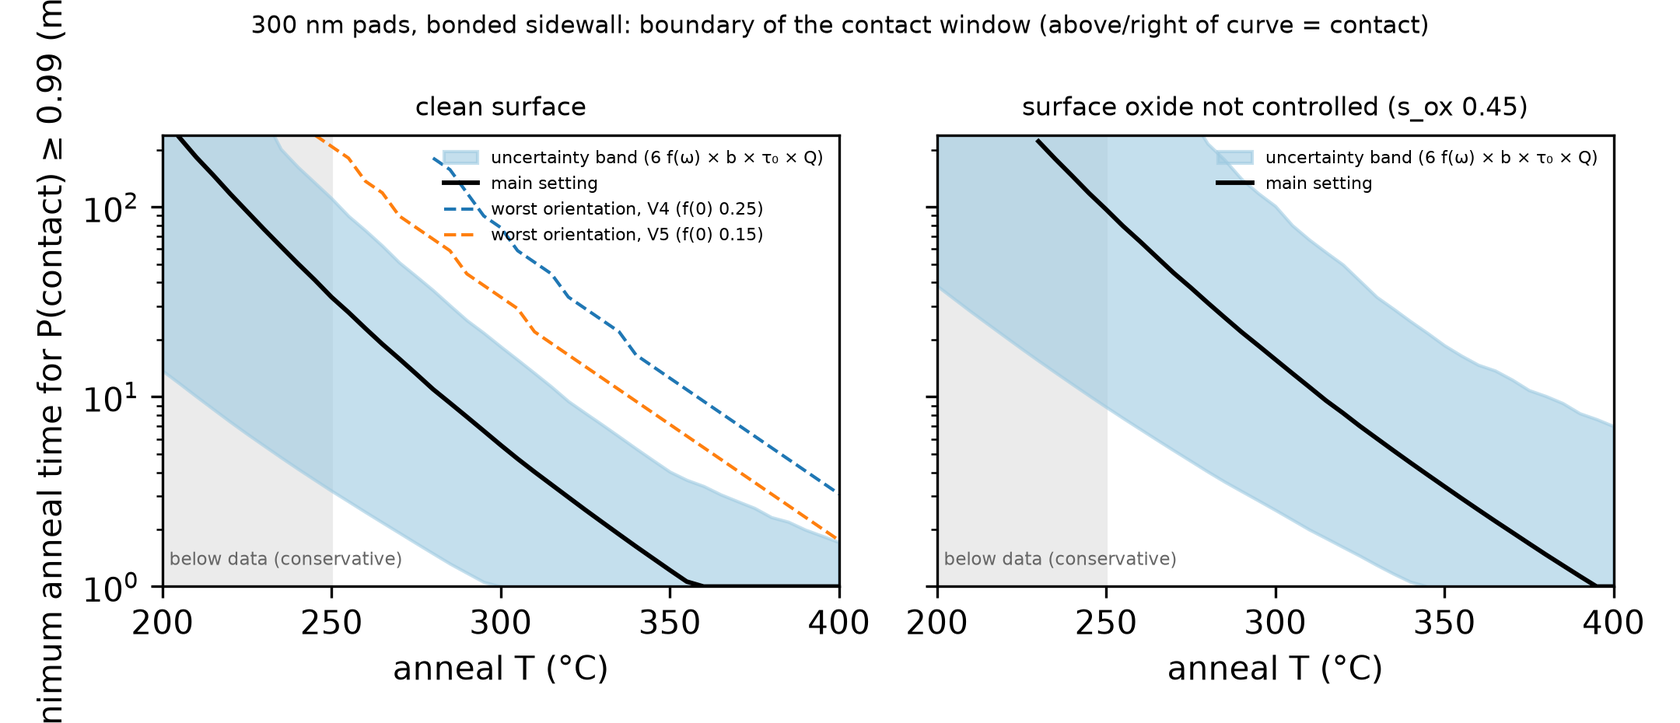
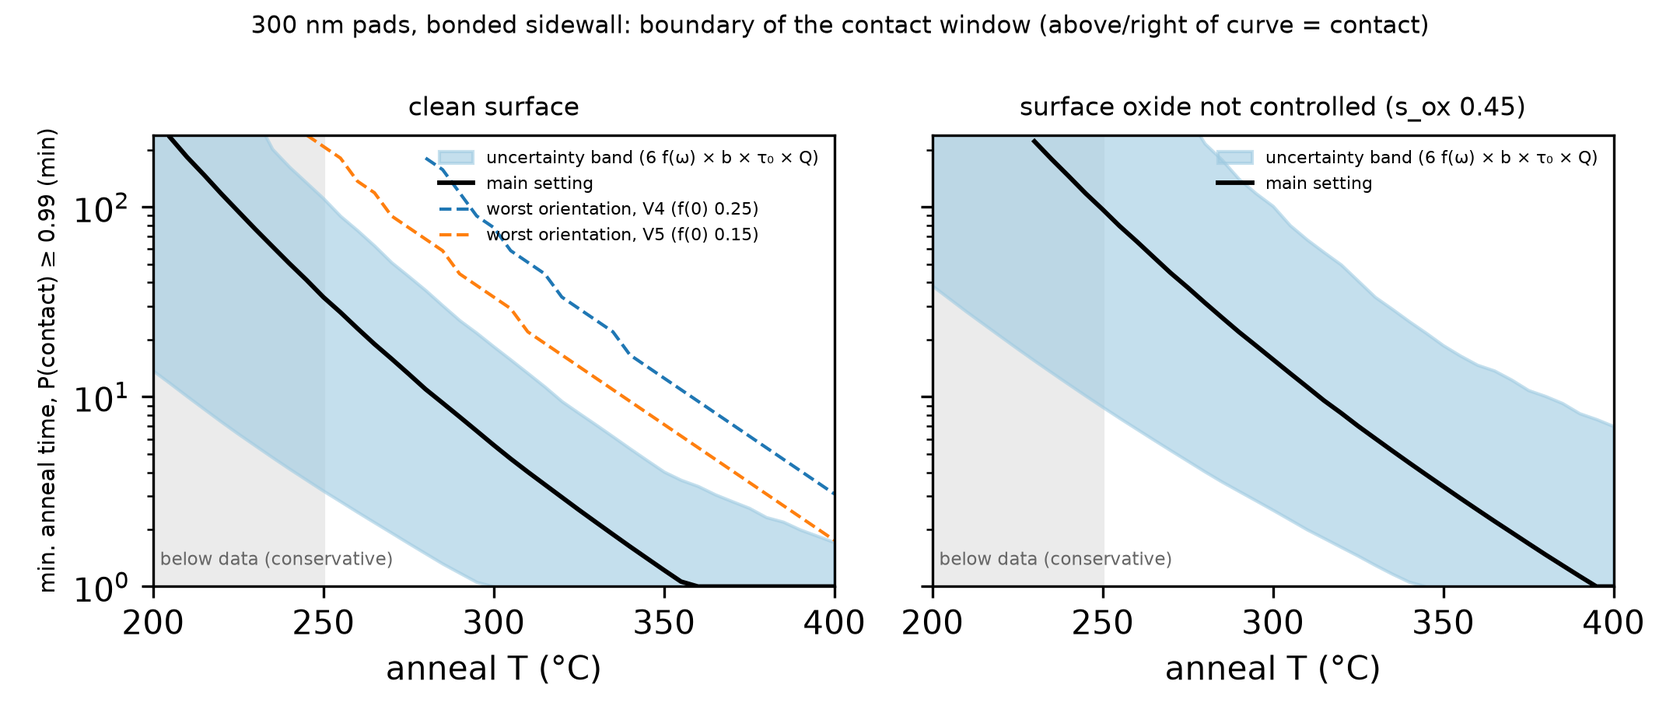
v4.5: boundary grid extended to 100 C so 2 h factor shifts are not clamped (tau0 31->36 C, Q 20->49 C); factors also stored as time multipliers at fixed T (constant in T except Q); Fig. 6 two panels, interface bar dropped (v5 scope); future-work list rewritten (literature now, measurement-only, not 

diff --git a/src/v2/boundary_curves.py b/src/v2/boundary_curves.py
@@ -28,7 +28,8 @@ import f_omega_variants as F  # noqa: E402
 
 OUT = F.OUT
 FIG = REPO / "results" / "figures"
-TG = np.arange(200.0, 400.1, 5.0)
+TG = np.arange(100.0, 400.1, 5.0)    # computed from 100 C only so that boundaries just below 200 C are not clamped at the grid edge
+                                     # (v4.4 had 200 C: the 2 h shifts of tau0 and Q were clamped). Below 250 C = outside data; no recipe claim.
 TMIN = np.logspace(0, math.log10(240.0), 40)             # minutes
 D = 300.0
 P_WIN = 0.99
@@ -127,7 +128,13 @@ def main():
     base_tb = t_boundary(P_grid(m["variant"], m["b"], m["tau0"], m["Q"]))
     def shift(tb_a, tb_b=None):
         tb_b = base_tb if tb_b is None else tb_b
-        return {f"{tf}min": (T_at(tb_a, tf) - T_at(tb_b, tf)) for tf in (30, 120)}
+        out = {f"{tf}min": (T_at(tb_a, tf) - T_at(tb_b, tf)) for tf in (30, 120)}
+        # same factor as a multiplier of the minimum anneal time at fixed T (worse / better); constant in T for factors that
+        # rescale the kinetics, T-dependent for Q (pivot at the 350 C reference)
+        for Tq in (220.0, 250.0, 285.0, 320.0):
+            i = int(np.argmin(abs(TG - Tq)))
+            out[f"time_ratio_{Tq:.0f}C"] = float(tb_a[i] / tb_b[i]) if np.isfinite(tb_a[i]) and np.isfinite(tb_b[i]) else float("inf")
+        return out
     var_tb = {v: t_boundary(P_grid(v, m["b"], m["tau0"], m["Q"])) for v in fits}
     fac = {
         "mechanism: surface diffusion off (elastic only)": {f"{tf}min": (float("inf") if math.isnan(T_at(t_boundary(P_grid(m['variant'], m['b'], m['tau0'], m['Q'], diffusion=False)), tf)) else 0.0) for tf in (30, 120)},
@@ -143,6 +150,10 @@ def main():
         "orientation-tail shape: spread over 6 f(omega)": {f"{tf}min": (np.nanmax([T_at(v, tf) for v in var_tb.values()]) - np.nanmin([T_at(v, tf) for v in var_tb.values()])) for tf in (30, 120)},
         "elastic factor b: 0.60 vs 1.0": shift(t_boundary(P_grid(m["variant"], 0.60, m["tau0"], m["Q"])), t_boundary(P_grid(m["variant"], 1.0, m["tau0"], m["Q"]))),
     }
+    ts = fac["orientation-tail shape: spread over 6 f(omega)"]
+    for Tq in (220.0, 250.0, 285.0, 320.0):     # slowest / fastest variant at fixed T
+        i = int(np.argmin(abs(TG - Tq))); col = np.array([v[i] for v in var_tb.values()])
+        ts[f"time_ratio_{Tq:.0f}C"] = float(col.max() / col.min()) if np.all(np.isfinite(col)) else float("inf")
     # the same factors evaluated for every variant as main -> range of the shift
     res["factor_shift_C"] = fac
     res["base_T_at"] = {f"{tf}min": T_at(base_tb, tf) for tf in (5, 30, 120)}
@@ -168,7 +179,7 @@ def main():
     res["worst_orientation"] = worst
     json.dump(res, open(OUT / "boundary_curves.json", "w"), indent=1, default=lambda x: None if (isinstance(x, float) and not math.isfinite(x)) else float(x))
     # figures
-    import matplotlib; matplotlib.use("Agg"); import matplotlib.pyplot as plt
+    import matplotlib; matplotlib.use("Agg"); import matplotlib.pyplot as plt; import matplotlib.ticker
     fig, axs = plt.subplots(1, 2, figsize=(7.2, 3.1), sharey=True)
     for ax, surf, title in zip(axs, ("clean", "oxidised"), ("clean surface", "surface oxide not controlled (s_ox 0.45)")):
         s = res["surfaces"][surf]
@@ -185,18 +196,26 @@ def main():
         ax.axvspan(200, 250, color="0.92", zorder=0); ax.text(202, 1.3, "below data (conservative)", fontsize=5.5, color="0.4")
         ax.set_yscale("log"); ax.set_ylim(1, 240); ax.set_xlim(200, 400); ax.set_xlabel("anneal T (°C)"); ax.set_title(title, fontsize=8)
         ax.legend(fontsize=5.2, frameon=False, loc="upper right")
-    axs[0].set_ylabel("minimum anneal time for P(contact) ≥ 0.99 (min)")
+    axs[0].set_ylabel("min. anneal time, P(contact) ≥ 0.99 (min)", fontsize=7)
     fig.suptitle("300 nm pads, bonded sidewall: boundary of the contact window (above/right of curve = contact)", fontsize=7.5)
     fig.tight_layout(); fig.savefig(FIG / "s2_boundary_curves_300nm.png", dpi=300); plt.close(fig)
     fig, ax = plt.subplots(figsize=(6.4, 3.3))
-    items = [(k, v["30min"], v["120min"]) for k, v in fac.items() if not k.startswith("mechanism")]
+    # interface row omitted from the figure: paper scope is bonded sidewalls (draft v5); it stays in the JSON
+    items = [(k, v["30min"], v["120min"], v["time_ratio_250C"]) for k, v in fac.items() if not k.startswith(("mechanism", "interface"))]
     items.sort(key=lambda r: -abs(np.nan_to_num(r[2])))
     y = np.arange(len(items))
+    plt.close(fig); fig, (ax, ax2) = plt.subplots(1, 2, figsize=(7.2, 3.3), sharey=True, gridspec_kw=dict(width_ratios=[1.5, 1]))
+    ax2.barh(y, [r[3] for r in items], 0.5, color="0.45"); ax2.axvline(1, color="k", lw=0.6)
+    for yy, r in zip(y, items):
+        ax2.text(r[3] * 1.03, yy, f"×{r[3]:.1f}", va="center", fontsize=5.5)
+    ax2.set_xscale("log"); ax2.set_xlim(0.9, 7); ax2.set_xticks([1, 2, 3, 5]); ax2.set_xticklabels(["1", "2", "3", "5"], fontsize=6.5)
+    ax2.xaxis.set_minor_locator(matplotlib.ticker.NullLocator()); ax2.set_xlabel("× minimum anneal time at fixed T (250 °C)", fontsize=6.5)
+    ax2.set_title("same factors in time units", fontsize=7)
     ax.barh(y - 0.18, [abs(np.nan_to_num(r[1])) for r in items], 0.36, label="at 30 min")
     ax.barh(y + 0.18, [abs(np.nan_to_num(r[2])) for r in items], 0.36, label="at 2 h")
     ax.set_yticks(y); ax.set_yticklabels([r[0] for r in items], fontsize=6.2); ax.invert_yaxis()
-    ax.set_xlabel("|shift of the boundary temperature| (°C), 300 nm, clean")
-    ax.set_title("surface diffusion off: no closure at any T ≤ 400 °C (not shown)", fontsize=7)
+    ax.set_xlabel("shift of the boundary temperature (°C), 300 nm, clean", fontsize=6.5); ax.tick_params(axis="x", labelsize=6.5)
+    ax.set_title("surface diffusion off: no closure at any T ≤ 400 °C (not shown)", fontsize=7); ax.tick_params(axis="y", labelsize=6.2)
     ax.legend(fontsize=6.5, frameon=False); fig.tight_layout(); fig.savefig(FIG / "s2_factor_shift_300nm.png", dpi=300); plt.close(fig)
 
 

diff --git a/docs/paper/ieie2026f_plan_and_draft_ko.md b/docs/paper/ieie2026f_plan_and_draft_ko.md
@@ -18,7 +18,7 @@
 
 **기여 두 가지(4.1).**
 1. **탄성 접촉 한계의 정량 규칙과 대리식.** 두 그룹(NYCU·imec) 돌출 실측으로 학습·테스트한 열탄성 FEM에서, 탄성 접촉 한계를 recess 조건부 규칙으로 제시했다(400 °C, 3/5/8 nm → 0.55/0.70/1.0 µm). 등방(Hill) 탄성 돌출은 구속 계수 대리식 C(h/w)가 imec·NYCU 적층의 미사용 기하 4개에서 ±20 % 안에 들었다(사전등록). 0.54 µm 실측(측정/모델 0.61–0.69, 전 온도)은 이 곡선 밖의 고립점이며, 라이너 두께 가설까지 시험해 탄성 기하 인자로는 설명되지 않음을 보였다.
-2. **패드별 무작위 요인을 포함한 공정창: 확률 기준과 최악 조건 기준.** 패드마다 다른 recess와 결정방위를 확률 변수로 두고, DM2026 분포의 판독 가능한 범위(누적 ≥ 0.5 %)와 일관된 방위 함수 f(ω) 6종 × 탄성 계수 b × 확산 동역학 τ₀·Q의 모든 조합에서 유지되는 경계는 청정 표면 기준 2시간 248 °C, 30분 285 °C, 5분 342 °C 이상이다. 요인별 경계 온도 이동으로 보면 공정창을 가장 크게 움직이는 것은 지배 기구(확산 유무)와 확산 동역학·라이너·표면(20–40 °C)이고, recess 평균과 방위 꼬리는 약 10 °C, recess 산포는 약 4 °C이며, recess 산포와 방위는 주로 **수율의 하위 꼬리**(천 쌍 중 몇 쌍이 끝까지 안 닿는가)를 정한다. 방위 분포 가정을 뺀 최악 조건 기준에서는 정확히 <111>인 패드의 bulge-out f(0)이 결론을 정한다(0 → 어떤 어닐로도 최악 쌍 불충분, 허용 recess 0.5–0.9 nm/패드; f(0) > 0 → 2시간 265–290 °C 또는 30분 304–324 °C 이상, 2.4–4.2 nm/패드). 확률 기준 허용 recess는 3.5–9 nm/패드다.
+2. **패드별 무작위 요인을 포함한 공정창: 확률 기준과 최악 조건 기준.** 패드마다 다른 recess와 결정방위를 확률 변수로 두고, DM2026 분포의 판독 가능한 범위(누적 ≥ 0.5 %)와 일관된 방위 함수 f(ω) 6종 × 탄성 계수 b × 확산 동역학 τ₀·Q의 모든 조합에서 유지되는 경계는 청정 표면 기준 2시간 248 °C, 30분 285 °C, 5분 342 °C 이상이다. 요인별 경계 온도 이동으로 보면 공정창을 가장 크게 움직이는 것은 지배 기구(확산 유무)와 확산 동역학·라이너·표면(25–49 °C)이고, recess 평균과 방위 꼬리는 약 10 °C, recess 산포는 약 4 °C이며, recess 산포와 방위는 주로 **수율의 하위 꼬리**(천 쌍 중 몇 쌍이 끝까지 안 닿는가)를 정한다. 방위 분포 가정을 뺀 최악 조건 기준에서는 정확히 <111>인 패드의 bulge-out f(0)이 결론을 정한다(0 → 어떤 어닐로도 최악 쌍 불충분, 허용 recess 0.5–0.9 nm/패드; f(0) > 0 → 2시간 265–290 °C 또는 30분 304–324 °C 이상, 2.4–4.2 nm/패드). 확률 기준 허용 recess는 3.5–9 nm/패드다.
 
 **주장하지 않는 것.** 기구 역전의 실측 검증, Ayoub 300 nm 변형률 크기 재현, 확산 항 검증 통과(사전등록 시험 3회 모두 NOT VALIDATED, 적용 범위 = 등크기 패드·≥ 250 °C), 관측 범위 아래 꼬리·f(0), "검증된 레시피".
 
@@ -44,7 +44,7 @@
 | Fig. 3 | 확산 항 vs DM2026: (a) 400/500 nm 피치 중앙값·IQR vs T/시간, (b) 크기 의존(200–500 nm 피치, 250 °C), (c) f(ω) 곡선과 facet 분율 | `s2_diffusion_fit.png`, `orient_diffusion_round2.csv` | 실패 점(200 °C 큰 패드)을 빈 기호로 |
 | Fig. 4 | 300 nm 공정창 경계: 온도(200–400 °C, 5 °C 간격)별 최소 어닐 시간, 청정/산화 패널, 주 설정 곡선 + 모든 조합 불확실 띠 + 최악 방위(f(0) > 0) 곡선, 250 °C 미만 회색(데이터 밖) | `s2_boundary_curves_300nm.png`, `results/stage2/v2/boundary_curves.json` | 곡선 |
 | Fig. 5 | 300 nm CMP recess 허용 합(nm) 지도(T × t) | `s2_recess_spec_0.30um.png`, `paper_results.json` | 숫자 표기 |
-| Fig. 6 | 요인별 경계 온도 이동(°C, 30분·2시간), 공정 변수/패드별 무작위 요인 색 구분 | `s2_factor_shift_300nm.png`, `boundary_curves.json` | 막대 |
+| Fig. 6 | (a) 요인별 경계 온도 이동(°C, 30분·2시간), (b) 같은 요인의 최소 어닐 시간 배수(250 °C) | `s2_factor_shift_300nm.png`, `boundary_curves.json` | 막대 |
 | Fig. 2(b) 후보 | 구속 계수 C vs h/w: FEM 167런 + 실측 19점 + 대리식, 0.54 µm 이탈 표시 | `results/figures/agents/constraint_factor.png`, `src/agents/scaling_collapse.py` | 사전등록 데이터 재배치 + X35–X38 통과점 |
 | Fig. 3(d) 후보 | 마스터 커브: h/(aD) vs t_eff(Q_eff 13.4), 등가 규칙 표 | `results/figures/agents/master_curve.png` | 사후 분석 표기 |
 | Fig. 6(c) 후보 | 체인 수율 Y(N) vs 링크 수, 대립 Cu/fg-Cu, 문헌 점 | `results/figures/agents/yield_vs_chain_length.png` | 탐색 예측 표기 |
@@ -85,7 +85,7 @@
 
 **3.2 표면확산 항: 시험 결과와 적용 범위.** 사전등록 고정형은 DM2026 17점 중 2점, 진폭 θ_eff를 학습한 개정 1은 11점을 통과해 규칙상 NOT VALIDATED이다. 실패는 200 °C·D ≥ 250 nm와 자가 어닐 Cu의 과소예측에 몰려 있고, ≥ 250 °C에서는 PPA-Cu 5/5, 전체 8/9가 허용오차 안이다(Fig. 3). 시간 의존: 200 °C 2 h→4 h 증가율 1.49 ± 0.13은 지수형 동역학과 양립하고, stretched exponential(β = 1/4; 두 배 증가율 상한 1.189)과는 2.3σ로 양립하지 않는다. 사후 분석에서 PPA-Cu 10점은 유효 활성화에너지 13.4 kcal/mol(문헌 저온값 13과 일치)로 한 곡선에 모였다. 이 형태를 고정해 미사용 DM2023(cavity/pad ≤ 0.5)으로 시험한 라운드 3는 0/7이었다: 등크기 패드 항은 불균등 구조로 전이되지 않는다. 따라서 식 (1)의 적용 범위는 등크기 접합·≥ 250 °C다. 방위: DM2026 분포의 판독 가능한 범위(누적 ≥ 0.5 %; 300 nm 패드 Fig. 3에서 6.5 nm 이하 3–4 %, 280 nm 패드 Fig. 5a에서 ≈ 10 %)와 일관된 f(ω) 4종은 모두 중앙값 11/17, IQR 13/17을 주며(방위 없는 모델 IQR 0), 몸통 폭 일부는 방위와 무관한 산포가 맡아야 한다. 정확히 <111>인 패드의 bulge-out f(0)과 누적 0.1 % 아래 꼬리는 관측되지 않았다.
 
-**3.3 300 nm 공정창과 요인별 영향.** 탄성 항은 결정방위 정보를 끝까지 유지했다: 300 nm 패드에 대해 방향 77개(학습 45, 검증 20, 면내 회전 12)의 3D ANSYS 해석으로 방향 2자유도 다항 회귀 응답표면(대리모델)을 만들고, 학습에 쓰지 않은 20방향에서 검증했다(접합: 2차식 최대 오차 0.46 %, 0.006 nm; 사전등록 기준 통과). 면내 회전 영향은 0.2 % 이하, 같은 E_z를 갖는 다른 방향의 차이는 0.34 % 이하로, 이 형상에서는 E_z 하나로 줄여도 정보 손실이 거의 없었다(공정창 판정 변화 0). 접합 계면에서 탄성 돌출의 방위 폭은 5 %([100]이 최소)다. 이 대리모델(탄성 계수 b ∈ {0.60, 0.69, 0.93, 1.0})과 식 (1)의 단순합으로, 상·하 방위(구면 균일 가정)와 recess(패드당 N(2.5, 0.5²) nm[10])를 확률 변수로 두고 P(m ≥ 0)를 계산했으며, 판독 범위와 일관된 f(ω) 6종 × b × τ₀{20, 60, 100 s} × Q{20.7, 13.4}의 모든 조합을 겹쳤다(Fig. 4). 온도 200–400 °C를 5 °C 간격, 시간 1분–4시간을 로그 간격 40점으로 계산해 P ≥ 0.99 경계를 '온도별 최소 어닐 시간' 곡선으로 그렸다(Fig. 4; 촘촘한 격자는 경계를 정밀하게 할 뿐 검증 데이터를 늘리지는 않는다). 탄성만으로 닫히는 조건은 없다. 청정 표면 주 설정의 경계는 30분에서 253 °C, 2시간에서 220 °C이고(250 °C 미만은 데이터 밖이며 모델이 보수적), 모든 불확실성 조합에서 유지되려면 5분 342 °C, 30분 285 °C, 2시간 248 °C 이상이 필요하다. 산화 표면은 같은 기준에서 30분 334 °C, 2시간 295 °C로 약 40–50 °C 높다. 요인의 영향은 경계 온도의 이동으로 나타냈다(2시간 / 30분 기준, Fig. 6): 확산이 없으면 400 °C까지 어떤 조건도 닫히지 않는다. 확산 속도 상수 τ₀(20↔100 s) 31/40 °C, 라이너 접촉각(107↔149°) 35/39 °C, 표면 산화 25/28 °C, 활성화에너지(13.4↔20.7 kcal/mol) 20/39 °C, 방위 꼬리의 모양(f(ω) 6종) 15/16 °C, recess 평균(2.5→3.5 nm/패드) 10/12 °C, 방위 꼬리의 유무 10/10 °C, recess 산포(σ 0.5→1.0 nm) 4/4 °C, 탄성 계수 b(0.60↔1.0) 3/4 °C. 즉 공정창은 열예산을 정하는 확산 동역학·라이너·표면이 주로 정하고, recess와 방위 같은 패드별 무작위 요인은 경계를 수–십여 °C 옮기며 주로 수율의 하위 꼬리에 작용한다. 그 꼬리의 최악 조건(방위 분포 가정 제거)은 정확히 <111>인 패드의 bulge-out f(0)이 정한다: f(0) = 0인 4종이면 최악 쌍의 여유는 탄성 단독(400 °C 30 min에서 −5.1 nm)과 같아 어떤 어닐로도 닫히지 않고, f(0) > 0인 2종(바닥값 0.25, 시그모이드)이면 최악 쌍도 2시간 기준 265–290 °C, 30분 기준 304–324 °C 이상에서 닫힌다. 허용 recess(패드당, 청정)는 확률 기준 3.5–9 nm, 최악 조건 기준 0.5–0.9 nm(f(0) = 0) 또는 2.4–4.2 nm(f(0) > 0)다(Fig. 5). 상·하 방위가 같은 순위로 짝지어지면 P가 0.965까지 떨어진다(의존성 민감도). 높이합 판정의 타당성은 접촉 FEM(2D 축대칭, Cu–Cu 마찰 접촉, 등방 소성)으로 점검했다: 접합 계면 300 nm·350 °C에서 높이합 예측과 FEM 중심 공극 분율(recess 1–4 nm/패드: 0.00/0.06/0.32/0.47)이 4/4 일치했다(기존 기록 재분석). 접합 계면에서는 Cu 표면이 돔형으로 솟아 중심 높이가 닫힘을 정한다. 따라서 높이합 판정을 계면 닫힘으로 읽을 수 있다.
+**3.3 300 nm 공정창과 요인별 영향.** 탄성 항은 결정방위 정보를 끝까지 유지했다: 300 nm 패드에 대해 방향 77개(학습 45, 검증 20, 면내 회전 12)의 3D ANSYS 해석으로 방향 2자유도 다항 회귀 응답표면(대리모델)을 만들고, 학습에 쓰지 않은 20방향에서 검증했다(접합: 2차식 최대 오차 0.46 %, 0.006 nm; 사전등록 기준 통과). 면내 회전 영향은 0.2 % 이하, 같은 E_z를 갖는 다른 방향의 차이는 0.34 % 이하로, 이 형상에서는 E_z 하나로 줄여도 정보 손실이 거의 없었다(공정창 판정 변화 0). 접합 계면에서 탄성 돌출의 방위 폭은 5 %([100]이 최소)다. 이 대리모델(탄성 계수 b ∈ {0.60, 0.69, 0.93, 1.0})과 식 (1)의 단순합으로, 상·하 방위(구면 균일 가정)와 recess(패드당 N(2.5, 0.5²) nm[10])를 확률 변수로 두고 P(m ≥ 0)를 계산했으며, 판독 범위와 일관된 f(ω) 6종 × b × τ₀{20, 60, 100 s} × Q{20.7, 13.4}의 모든 조합을 겹쳤다(Fig. 4). 온도 200–400 °C를 5 °C 간격, 시간 1분–4시간을 로그 간격 40점으로 계산해 P ≥ 0.99 경계를 '온도별 최소 어닐 시간' 곡선으로 그렸다(Fig. 4; 촘촘한 격자는 경계를 정밀하게 할 뿐 검증 데이터를 늘리지는 않는다). 탄성만으로 닫히는 조건은 없다. 청정 표면 주 설정의 경계는 30분에서 253 °C, 2시간에서 220 °C이고(250 °C 미만은 데이터 밖이며 모델이 보수적), 모든 불확실성 조합에서 유지되려면 5분 342 °C, 30분 285 °C, 2시간 248 °C 이상이 필요하다. 산화 표면은 같은 기준에서 30분 334 °C, 2시간 295 °C로 약 40–50 °C 높다. 요인의 영향은 경계 온도의 이동으로 나타냈다(2시간 / 30분 기준, Fig. 6): 확산이 없으면 400 °C까지 어떤 조건도 닫히지 않는다. 확산 속도 상수 τ₀(20↔100 s) 36/40 °C, 라이너 접촉각(107↔149°) 35/39 °C, 표면 산화 25/28 °C, 활성화에너지(13.4↔20.7 kcal/mol) 49/39 °C, 방위 꼬리의 모양(f(ω) 6종) 15/16 °C, recess 평균(2.5→3.5 nm/패드) 10/12 °C, 방위 꼬리의 유무 10/10 °C, recess 산포(σ 0.5→1.0 nm) 4/4 °C, 탄성 계수 b(0.60↔1.0) 3/4 °C. 같은 요인을 고정 온도에서 최소 어닐 시간의 배수로 보면 온도와 거의 무관하다(250 °C 기준 τ₀ ×5.0, 라이너 ×4.5, 산화 ×2.9, 꼬리 모양 ×1.9, recess 평균 ×1.6, 방위 꼬리 ×1.5, recess 산포·b ×1.2). 30분 경계의 이동이 2시간보다 큰 것은 요인이 강해져서가 아니라, 고온일수록 1 °C당 확산이 덜 빨라져 같은 시간 배수를 메우는 데 더 많은 °C가 들기 때문이다(아레니우스). 예외는 활성화에너지로, 350 °C 기준 데이터에서 멀리 내려갈수록 영향이 커진다(시간 배수 320 °C ×1.4 → 220 °C ×4.7). 즉 공정창은 열예산을 정하는 확산 동역학·라이너·표면이 주로 정하고, recess와 방위 같은 패드별 무작위 요인은 경계를 수–십여 °C 옮기며 주로 수율의 하위 꼬리에 작용한다. 그 꼬리의 최악 조건(방위 분포 가정 제거)은 정확히 <111>인 패드의 bulge-out f(0)이 정한다: f(0) = 0인 4종이면 최악 쌍의 여유는 탄성 단독(400 °C 30 min에서 −5.1 nm)과 같아 어떤 어닐로도 닫히지 않고, f(0) > 0인 2종(바닥값 0.25, 시그모이드)이면 최악 쌍도 2시간 기준 265–290 °C, 30분 기준 304–324 °C 이상에서 닫힌다. 허용 recess(패드당, 청정)는 확률 기준 3.5–9 nm, 최악 조건 기준 0.5–0.9 nm(f(0) = 0) 또는 2.4–4.2 nm(f(0) > 0)다(Fig. 5). 상·하 방위가 같은 순위로 짝지어지면 P가 0.965까지 떨어진다(의존성 민감도). 높이합 판정의 타당성은 접촉 FEM(2D 축대칭, Cu–Cu 마찰 접촉, 등방 소성)으로 점검했다: 접합 계면 300 nm·350 °C에서 높이합 예측과 FEM 중심 공극 분율(recess 1–4 nm/패드: 0.00/0.06/0.32/0.47)이 4/4 일치했다(기존 기록 재분석). 접합 계면에서는 Cu 표면이 돔형으로 솟아 중심 높이가 닫힘을 정한다. 따라서 높이합 판정을 계면 닫힘으로 읽을 수 있다.
 
 ### IV. 고찰 및 결론
 

diff --git a/docs/FUTURE_WORK.md b/docs/FUTURE_WORK.md
@@ -1,13 +1,30 @@
-# 후속 연구 목록 (2026-10-16, 제출본 v4.3 이후)
+# 후속 연구 목록 (2026-10-16 개정, 제출본 v5 이후)
 
-| # | 과제 | 왜 필요한가 | 무엇이 있어야 하나 | 규모 |
-|---|---|---|---|---|
-| 1 | 정확히 <111>인 패드의 bulge-out f(0) | 최악 조건 공정창과 허용 recess(0.5–0.9 vs 2.4–4.2 nm/패드)를 이 한 값이 정한다 | 실측(EBSD + AFM, <111> 단일 결정립 패드) 또는 저자 데이터 | 외부 데이터 |
-| 2 | 미끄럼 계면의 공정창을 접촉 FEM 기준으로 | 미끄럼에서는 높이합 판정이 낙관적(가장자리만 닿음, E71–E74 2/4) | 확산 bulge-out을 접촉 FEM 형상에 넣는 결합 해석(중심을 h_d만큼 올린 초기 형상 등) | ANSYS 2D 수십 런 |
-| 3 | 방위 대리모델의 적용 범위 확장 | 지금은 300 nm·imec 적층·피치 2 w 하나 | 0.54 µm, SiO2 적층, 피치·라이너 변화에서 같은 154런 절차 | ANSYS 3D 150런 단위 |
-| 4 | 확산 동역학 라운드 4 | 200 °C 과소, Cu 이력(도금 후 어닐) 미반영, β = 1/4 배척 | 지수형 동역학 + 이력별 τ₀를 고정하고 미사용 데이터로 사전등록 시험 | Python + 새 실측 |
-| 5 | 표면확산 형상 진화 FEM | f(ω)를 가정이 아니라 계산으로 대체 | 방위별 표면에너지 γ(ω)·표면확산계수 입력과 검증 데이터 | 장기 |
-| 6 | 0.54 µm 탄성 오차 원인 | 기하·라이너 가설 소진 | imec 원 데이터(Okudur 2017)의 측정 정의 | 저자 문의 |
-| 7 | ST/Leti 계면 정량 불일치 | 미끄럼+캡 비전달도 패드 10 기울기 40 % 과소 | 부분 접착(마찰·스프링) 계면, Ayoub 저자 회신 | ANSYS 3D 소수 |
-| 8 | 300 nm 단결정 소성(R61) | 접촉압력 절대값 | 다른 PC 결과 또는 수렴 개선 | ANSYS 장시간 |
-| 9 | 수율 연결(체인 길이) | 패드별 꼬리 → 체인 수율 예측의 검증 | 등크기 sub-µm 데이지체인 수율 공개 데이터 | 외부 데이터 |
+v4.3 목록(9개)을 다시 정리했다. 기준은 세 가지다. 지금 손으로 할 수 있는가, 하면 300 nm 접합 측벽 결론이 바뀌는가, 순서가 맞는가.
+
+## A. 지금 할 수 있는 것 (문헌 조사, 새 측정 없음)
+
+| # | 과제 | 왜 필요한가 | 방법 |
+|---|---|---|---|
+| A1 | 확산 방위 함수 f(ω) 문헌 데이터 | 남은 불확실성 중 꼬리 모양이 경계를 15–16 °C(시간 ×1.9) 옮긴다. 판독 범위 아래(누적 0.5 % 미만) 꼬리를 줄일 수 있는 유일한 경로 | 결정립 방위별 bulge-out/표면 이동 측정(EBSD + AFM/TEM) 논문 조사. 찾으면 f(ω) 변형 6종 중 어긋나는 것을 사전등록 기준으로 제외 |
+| A2 | 250 °C 이하 bulge-out 시간 변화 데이터 | 활성화에너지 Q의 영향이 저온·장시간일수록 커진다(시간 배수 320 °C ×1.4 → 220 °C ×4.7). 모든 조합 2시간 경계(248 °C)가 데이터 하한(250 °C) 바로 위에 있다 | 같은 크기 패드, 200–250 °C 어닐 시간별 돌출 데이터 문헌 조사. 없으면 '250 °C 미만 레시피는 주장하지 않는다'로 끝낸다 |
+
+A2를 논문에서 굳이 설명할 필요는 없다. 본문은 이미 250 °C 미만을 '데이터 밖, 모델 보수적'으로 표시하고 레시피를 주장하지 않는다. 한계 문장 한 줄이면 충분하다.
+
+## B. 측정이 있어야 하는 것 (이 연구 안에서는 해결 불가, 한계로만 기술)
+
+| # | 과제 | 막는 이유 |
+|---|---|---|
+| B1 | 정확히 <111>인 패드의 bulge-out f(0) | 최악 방위 결론(0이면 어떤 어닐로도 최악 쌍 불충분)을 이 한 값이 정하지만 실측이 필요하다 |
+| B2 | 300 nm 돌출 실측 | 300 nm 결과는 예측이며, 검증하려면 측정이 필요하다 |
+| B3 | 0.54 µm 탄성 오차 원인 | imec 원 데이터(Okudur 2017)의 측정 정의가 필요하다 |
+| B4 | 체인 수율 검증 | 같은 크기 sub-µm 데이지체인 수율 공개 데이터가 필요하다 |
+
+## C. 하지 않는 것 (결론을 바꾸지 않거나 순서가 틀림)
+
+| 과제 | 이유 |
+|---|---|
+| 미끄럼 계면 접촉 FEM 공정창 | 제출본 범위가 접합 측벽이다(v5). 접합에서는 높이합 판정과 접촉 FEM이 4/4 일치해 결론이 바뀌지 않는다 |
+| 방위 대리모델의 다른 크기·적층 확장 | 300 nm 대리모델은 154런과 미사용 20방향 검증으로 이미 끝났다(최대 오차 0.46 %). 300 nm의 남은 불확실성은 탄성이 아니라 확산 쪽이므로, 다른 크기로 넓히기 전에 A1·A2가 먼저다 |
+| 불균등 패드(상·하 크기 다름) | 확산 항이 같은 크기 패드에서만 성립한다(DM2023 불균등 0/7). 범위 밖으로 명시 |
+| 표면확산 형상 진화 FEM, 300 nm 단결정 소성(R61), ST/Leti 계면 정량 불일치, 오버레이·크리프 | 장기 과제이거나 다른 PC 작업이거나 범위 밖. 제출본 결론과 무관 |

diff --git a/docs/RESEARCH_SUMMARY_v4.md b/docs/RESEARCH_SUMMARY_v4.md
@@ -21,7 +21,7 @@
 
 1. **탄성 접촉 한계의 정량 규칙과 등방 대리식** — 두 그룹 돌출 실측으로 학습·테스트; 대리식 C(h/w) 미사용 형상 4/4 ±20 %(사전등록). 0.54 µm 이상점은 라이너 가설까지 기각해 탄성 기하로 설명 불가함을 확인.
 2. *(연구 기록, 논문 v5 제외)* **계면 조건을 하나의 설정으로 평가** — ST/Leti 정성 관측 넷(Ayoub 3 µm·300 nm 부호, Lhostis 폭·두께)을 모두 만족하는 것은 "측벽 미끄럼 + 캡 하중 비전달"뿐(접합 2/4). imec·NYCU는 접합 요구. 계면 상태는 공정별 입력, ST/Leti 이완은 후보 가설.
-3. **패드별 무작위 요인을 포함한 공정창(확률 기준과 최악 조건 기준)** — 공정창을 크게 움직이는 것은 지배 기구·열예산·표면·라이너·계면 상태, recess 산포와 방위는 수율 꼬리를 정함; 요인 영향은 경계 온도 이동으로: 동역학·라이너·표면 20–40 °C, 계면 14–19 °C, recess 평균·방위 꼬리 ≈ 10 °C, recess 산포·b 3–4 °C; 최악 방위는 f(0)이 결정(0 → 어떤 어닐도 불충분, 허용 recess 0.5–0.9 nm/패드; 0.25 → 2시간 290 °C·30분 324 °C 이상). f(0) 측정이 다음 실험.
+3. **패드별 무작위 요인을 포함한 공정창(확률 기준과 최악 조건 기준)** — 공정창을 크게 움직이는 것은 지배 기구·열예산·표면·라이너·계면 상태, recess 산포와 방위는 수율 꼬리를 정함; 요인 영향은 경계 온도 이동으로: 동역학·라이너·표면 25–49 °C, recess 평균·방위 꼬리 ≈ 10 °C, recess 산포·b 3–4 °C; 최악 방위는 f(0)이 결정(0 → 어떤 어닐도 불충분, 허용 recess 0.5–0.9 nm/패드; 0.25 → 2시간 290 °C·30분 324 °C 이상). f(0) 측정이 다음 실험.
 4. *(연구 기록, 논문 v5 제외)* **(v2) 계면이 방위 효과를 뒤집는다** — 300 nm 방위 154런: 접합 폭 5 %·[100] 최약, 미끄럼 폭 38 %·[111] 최약(확산 최약 방향과 겹침). E_z 축약 손실 ≤ 1.1 %, 면내 회전 ≤ 0.2 % → 방향 2자유도·E_z로 충분.
 5. *(연구 기록, 논문 v5에는 접합 4/4만)* **(v2) 높이합 판정의 유효 범위** — 접합(돔형 상승)에서는 접촉 FEM과 4/4 일치, 미끄럼(플러그형 상승)에서는 2/4: 가장자리만 닿고 중심 공극이 남는다.
 
@@ -61,3 +61,5 @@ v2-orientation: 13a580f(방위 사전등록) → c7e2eb4(방위 결과) → 4beb
 - T 5 °C 간격 × t 1분–4시간 로그 40점. 청정 경계: 주 설정 30분 253 °C / 2시간 220 °C; 모든 조합 유지 5분 342 / 30분 285 / 2시간 248 °C. 산화: 모든 조합 30분 334 / 2시간 295 °C.
 - 요인 = 경계 온도 이동(2 h / 30 min): 확산 없음 → 닫히지 않음; τ₀ 31/40, 라이너 35/39, 산화 25/28, Q 20/39, 계면 14/19, 꼬리 모양 15/16, recess 평균 10/12, 방위 꼬리 유무 10/10, recess 산포 4/4, b 3/4 °C.
 - 최악 방위(f(0) > 0): 2시간 265–290 °C, 30분 304–324 °C; f(0) = 0이면 닫히지 않음.
+- 정정(v4.5): v4.4 격자 하한 200 °C에서 2시간 경계가 잘려 τ₀(31→36 °C)·Q(20→49 °C) 이동이 과소였다. 계산 격자를 100 °C부터로 넓힘(250 °C 미만은 데이터 밖, 레시피 주장 없음). 주 설정·모든 조합 경계는 불변; 낙관 경계 2시간 청정 140 / 산화 168 °C(데이터 밖).
+- 30분 이동 > 2시간 이동의 의미: 시간 배수로는 거의 일정(τ₀ ×5.0, 라이너 ×4.5, 산화 ×2.9, 꼬리 모양 ×1.9, recess 평균 ×1.6, 방위 꼬리 ×1.5, recess 산포·b ×1.2). °C 차이는 아레니우스 환산 효과(고온에서 1 °C당 속도 증가가 작음). Q만 저온일수록 커짐(320 °C ×1.4 → 220 °C ×4.7).

diff --git a/docs/paper/claude_science_prompt_ko.md b/docs/paper/claude_science_prompt_ko.md
@@ -24,7 +24,7 @@
 ## 2026-10-16 v4.4 정정 — 최우선 (아래 모든 갱신보다 우선)
 - 공정창을 '셀/칸'(15개 레시피 판정) 대신 **5 °C 간격 경계 곡선**으로 쓴다. '9셀 유지/5셀 갈림', 'factor_cells_changed', '권고 셀 테두리' 표현은 모두 삭제.
 - Fig. 4 = `results/figures/s2_boundary_curves_300nm.png`, Fig. 6 = `results/figures/s2_factor_shift_300nm.png`. 숫자 원본은 `results/stage2/v2/boundary_curves.json`, 본문 숫자는 초안 3.4를 그대로 따른다.
-- 핵심 숫자: 청정 모든 조합 유지 2 h 248 °C / 30 min 285 °C / 5 min 342 °C; 산화 2 h 295 / 30 min 334 °C; 요인 이동(2 h/30 min) τ₀ 31/40, 라이너 35/39, 산화 25/28, Q 20/39, 꼬리 모양 15/16, recess 평균 10/12, 방위 꼬리 10/10, recess 산포 4/4, b 3/4 °C; 확산 없으면 400 °C까지 닫히지 않음.
+- 핵심 숫자: 청정 모든 조합 유지 2 h 248 °C / 30 min 285 °C / 5 min 342 °C; 산화 2 h 295 / 30 min 334 °C; 요인 이동(2 h/30 min) τ₀ 36/40, 라이너 35/39, 산화 25/28, Q 49/39, 꼬리 모양 15/16, recess 평균 10/12, 방위 꼬리 10/10, recess 산포 4/4, b 3/4 °C; 확산 없으면 400 °C까지 닫히지 않음. (v4.5) Fig. 6은 두 패널: (b) 같은 요인의 최소 어닐 시간 배수(250 °C, τ₀ ×5.0, 라이너 ×4.5, 산화 ×2.9, 꼬리 모양 ×1.9, recess 평균 ×1.6, 방위 꼬리 ×1.5, recess 산포·b ×1.2). 3.3의 '시간 배수는 온도와 무관, 30분 °C 이동이 큰 것은 아레니우스 환산, Q만 저온에서 커짐' 문장을 그대로 옮긴다.
 - 촘촘한 격자는 경계를 정밀하게 할 뿐 검증 데이터를 늘리지 않는다. 250 °C 미만은 데이터 밖(모델 보수적)으로 표기.
 
 ## 2026-10-16 v4 정정 — 최우선 (아래 이전 갱신보다 우선)

diff --git a/docs/stage2_exploration_log.md b/docs/stage2_exploration_log.md
@@ -667,3 +667,8 @@
 - `src/v2/boundary_curves.py`: T 200–400 °C 5 °C 간격 × t 1–240 min 로그 40점, P ≥ 0.99 경계를 온도별 최소 시간으로. 기존 탄성(hkl 대리모델)·f(ω) 6종·MC 설정 그대로, 새 데이터 없음.
 - 버그 수정(실행 전): 확산 진폭을 정렬 후 순열해 같은 패드의 탄성·확산 상관이 끊기던 문제 → 정렬 없이 같은 패드 순서 유지.
 - 결과: 청정 주 설정 30 min 253 / 2 h 220 °C; 모든 조합 5 min 342 / 30 min 285 / 2 h 248 °C; 산화 모든 조합 30 min 334 / 2 h 295 °C. 요인 이동은 RESEARCH_SUMMARY_v4 §7. 셀 수 순위(v4.3)는 격자 의존이라 대체.
+
+## 2026-10-16 v4.5 경계 이동 정정과 해석 (탐색, ANSYS 없음)
+- 발견: v4.4 계산 격자 하한 200 °C에서 2시간 경계가 잘림(주 설정 219.6 °C − Q 이동 19.55 = 200.0). 격자를 100 °C부터로 넓혀 재계산: τ₀ 2 h 31.4→35.5, Q 2 h 19.6→48.8 °C. 나머지·주 설정·모든 조합 경계 불변.
+- 요인을 고정 T에서 최소 시간 배수로도 저장(`time_ratio_*C`): τ₀ 4.9–5.05, 라이너 4.4–4.5, 산화 2.8–2.9, recess 평균 1.56–1.6, 방위 꼬리 1.49–1.52 — T와 무관. Q 4.72(220 °C) → 1.35(320 °C). 30분 °C 이동이 큰 것은 아레니우스 환산(T² 비 (526/493)² ≈ 1.14 = 40.4/35.5).
+- Fig. 6 두 패널로, 계면 막대는 그림에서 제거(draft v5 범위: 접합 측벽), JSON에는 유지.

diff --git a/docs/paper/corrections_v4.md b/docs/paper/corrections_v4.md
@@ -36,3 +36,4 @@
 8. 구성(v4.2): 서론은 필요성·목적·논문 구성으로 끝내고 기여 목록을 넣지 않는다. 기여 두 가지(v5)는 IV장 '고찰 및 결론'의 4.1 기여에 선행연구 대비로 쓴다(초안 §4 그대로). 서면 심사용 4쪽에서도 같은 배치.
 9. (v4.3) 3.4절: 탄성 항은 154런 hkl 대리모델 사용을 명시(초안 문단 그대로). Fig. 6은 `results/figures/s2_factor_ranking_v4.png`로 교체(파랑 = 공정 변수, 빨강 = 패드별 무작위 요인). 최악 조건 허용 recess 2.4–4.2 nm(f(0) > 0).
 10. (v4.4) Fig. 4 → `results/figures/s2_boundary_curves_300nm.png`(온도별 최소 어닐 시간 곡선 + 불확실 띠 + 최악 방위), Fig. 6 → `results/figures/s2_factor_shift_300nm.png`(요인별 경계 온도 이동, °C). '15개 중 몇 칸' 표현은 쓰지 않는다. 숫자는 초안 3.4 그대로(`results/stage2/v2/boundary_curves.json`).
+11. (v4.5) 3.3 숫자 정정: τ₀ 36/40 °C, Q 49/39 °C(2시간/30분; 이전 31·20은 격자 하한에서 잘린 값). Fig. 6은 두 패널((b) 시간 배수)로 다시 생성됨, 계면 막대 제거(v5 범위). 3.3에 '시간 배수는 온도와 무관, °C 차이는 아레니우스 환산' 문장 추가.
